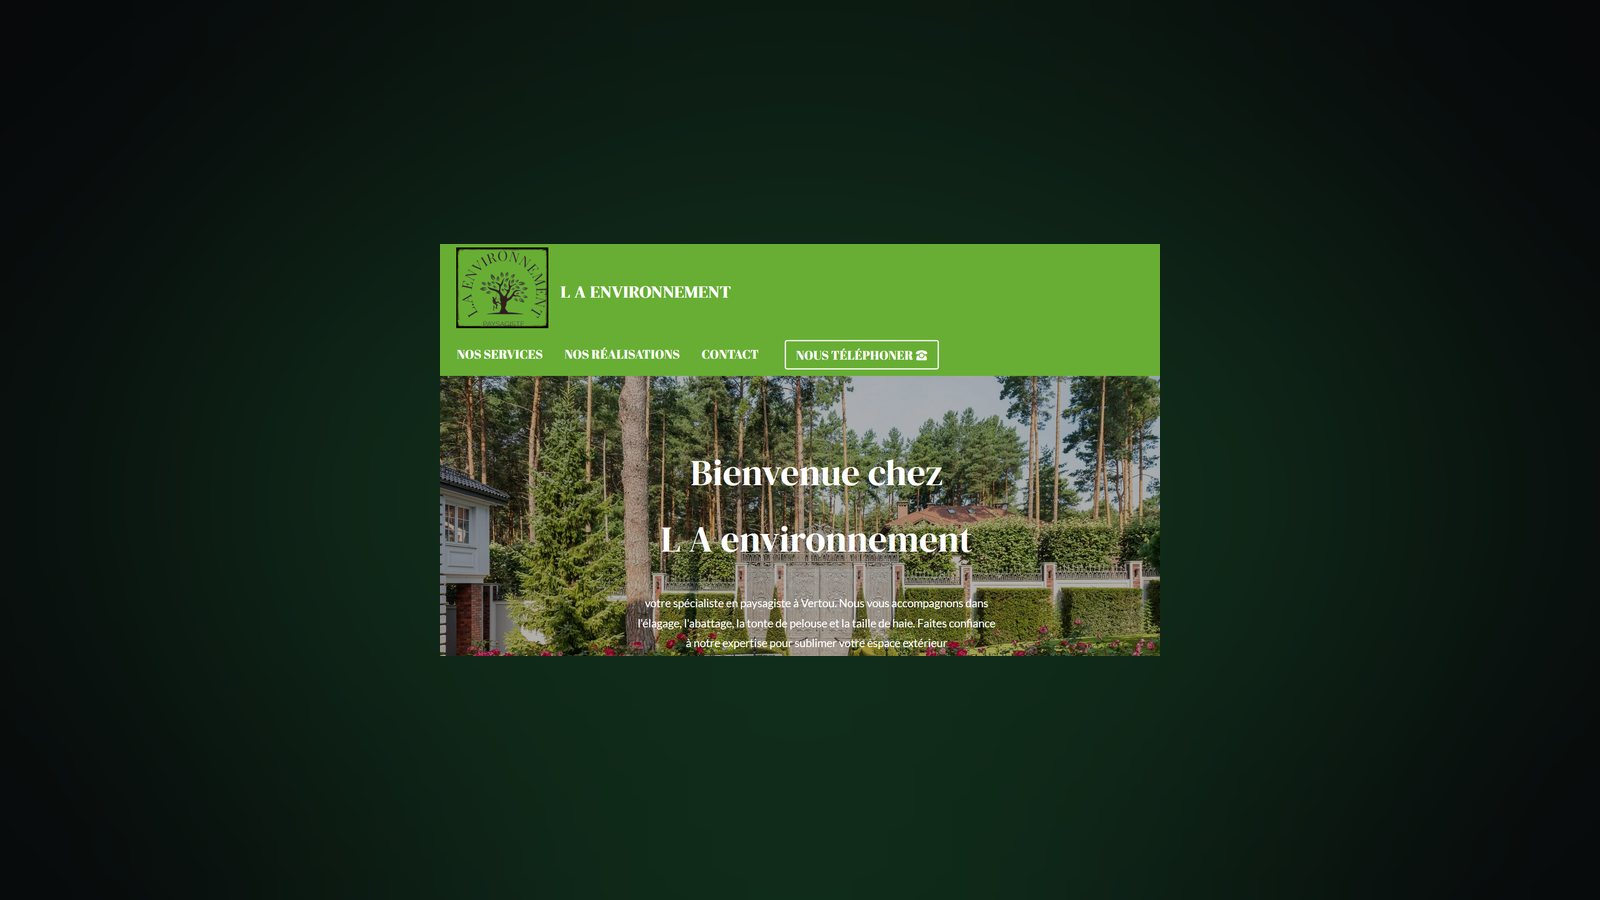
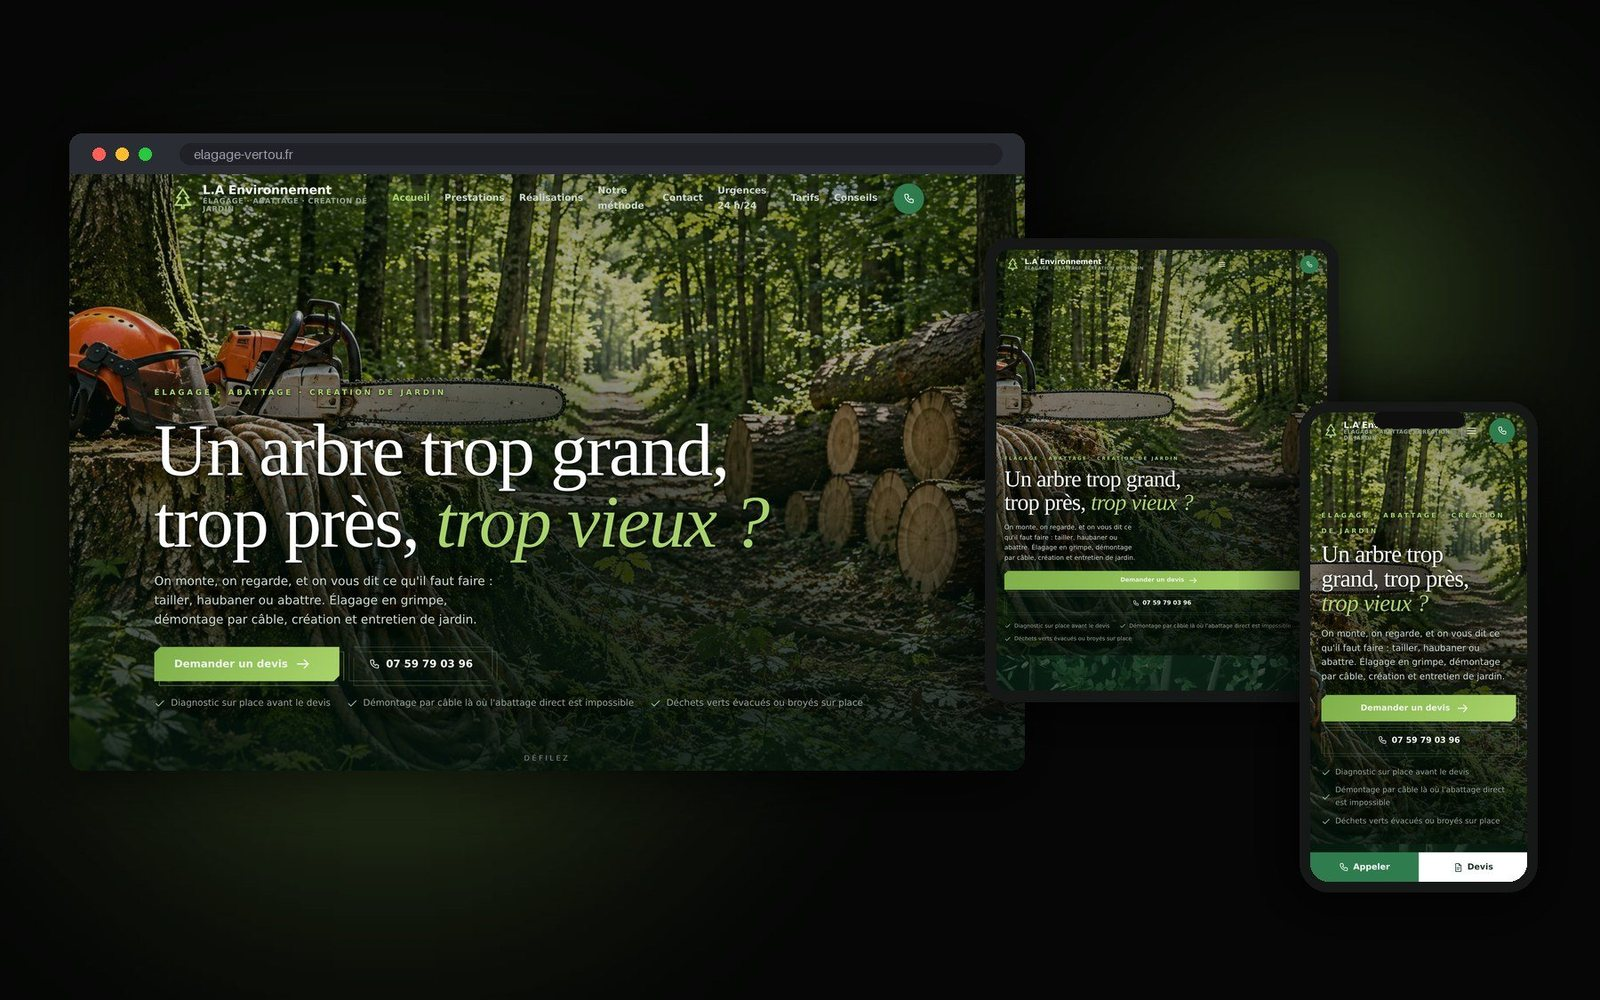
La carte L.A de l'accueil menait vers un domaine mort, capture de l'ancien site
Sur alliancegroupe-inc.com, la carte de la page d'accueil montrait encore une
capture du site d'avant, annoncait « paysagiste » et pointait vers
paysagiste-environnement.com — un domaine dont le certificat est casse :
un visiteur qui cliquait recevait une alerte de securite du navigateur.
La plus belle vitrine du monde ne sert a rien si le lien fait peur.

La carte porte desormais la maquette ordinateur + tablette + telephone, et
l'image mene a la page explicative /realisation-elagage plutot qu'a
l'exterieur. Le metier reel est annonce (elagage, abattage, Vertou), et les
trois puces deviennent verifiables : douze ambiances jour/saison, urgences
24 h/24 declarees dans la fiche structuree, tarifs affiches.

Le meme lien mort trainait sur page-accueil-epuree.php et
page-audit-securite.php : corrige aussi.

La page explicative gagne une section « Des exemples, pas des promesses » :
quatre pages interieures reelles du site — une prestation, un chantier
pendant/apres, la page d'urgence, la page des prix — chacune ecrite pour une
recherche precise plutot qu'un fourre-tout « nos services ».

Claude-Session: https://claude.ai/code/session_01LXSKG1NwsfrAKLFKPWJ1QK

diff --git a/alliance-groupe-theme/templates/page-realisation-elagage.php b/alliance-groupe-theme/templates/page-realisation-elagage.php
@@ -24,6 +24,20 @@ $galerie = array(
 	array( 'la-tarifs',      'Les tarifs annoncés',      'Les fourchettes sont sur la page. Un artisan qui affiche ses prix n\'a plus à se justifier au téléphone.' ),
 	array( 'la-devis',       'La demande de devis',      'Une seule question posée au visiteur : ce qui vous inquiète. Le formulaire vient après, jamais avant.' ),
 );
+
+/* Les pages interieures : c'est la que le travail se voit vraiment. Une page
+   par prestation, une par chantier, une pour l'urgence, une pour les prix —
+   chacune ecrite pour une recherche precise, pas un fourre-tout. */
+$exemples = array(
+	array( 'la-ex-prestation', 'Une page par prestation',
+		'« Élagage en grimpe à Vertou (44) : taille douce d\'arbre ». Six prestations, six pages, six recherches Google différentes. Une page fourre-tout « nos services » n\'aurait rien capté.' ),
+	array( 'la-ex-chantier', 'Une page par chantier',
+		'Pendant / après, photographié sur place. C\'est la preuve qu\'un devis ne remplace pas : le client voit ce qui l\'attend avant même d\'appeler.' ),
+	array( 'la-ex-urgences', 'La page qui sonne à 2 h du matin',
+		'« Urgence arbre tombé à Vertou — élagueur 24 h/24 ». Une page dédiée, le numéro en gros, pour la recherche faite dans la panique après une tempête.' ),
+	array( 'la-ex-tarifs', 'Les prix, écrits',
+		'« Prix d\'un élagage ou d\'un abattage à Vertou et Nantes ». Très peu d\'artisans osent. Celui qui affiche ses fourchettes élimine les curieux et garde les sérieux.' ),
+);
 ?>
 <?php get_template_part( 'template-parts/realisation-style' ); ?>
 <style>
@@ -187,6 +201,21 @@ $galerie = array(
           <figure class="rp__shot" data-r>
             <img src="<?php echo esc_url( $img . $g[0] . '.jpg' ); ?>" alt="<?php echo esc_attr( $g[1] ); ?> — L.A Environnement" loading="lazy">
             <div><b><?php echo esc_html( $g[1] ); ?></b><span><?php echo esc_html( $g[2] ); ?></span></div>
+          </figure>
+        <?php endforeach; ?>
+      </div>
+    </div>
+  </section>
+
+  <section class="rp__gal" style="padding-top:0">
+    <div class="wr">
+      <h2 data-r>Des exemples, <em>pas des promesses</em></h2>
+      <p data-r>Le site ne se résume pas à son accueil. Chaque page a été écrite pour une question précise que quelqu'un tape réellement dans Google.</p>
+      <div class="rp__shots">
+        <?php foreach ( $exemples as $e ) : ?>
+          <figure class="rp__shot" data-r>
+            <img src="<?php echo esc_url( $img . $e[0] . '.jpg' ); ?>" alt="<?php echo esc_attr( $e[1] ); ?> — L.A Environnement" loading="lazy" width="1200" height="750">
+            <div><b><?php echo esc_html( $e[1] ); ?></b><span><?php echo esc_html( $e[2] ); ?></span></div>
           </figure>
         <?php endforeach; ?>
       </div>

diff --git a/alliance-groupe-theme/templates/page-accueil-cinema.php b/alliance-groupe-theme/templates/page-accueil-cinema.php
@@ -780,13 +780,13 @@ document.documentElement.classList.add('js-cine');
         </div>
       </article>
       <article class="rz__card" data-rv>
-        <a class="rz__vue" href="https://www.paysagiste-environnement.com/" target="_blank" rel="noopener"><img src="<?php echo esc_url( $dir . '/assets/images/realisations/carte-la.jpg' ); ?>" alt="Le site L.A Environnement" loading="lazy"></a>
+        <a class="rz__vue" href="<?php echo esc_url( home_url( '/realisation-elagage' ) ); ?>"><img src="<?php echo esc_url( $dir . '/assets/images/realisations/carte-la.jpg' ); ?>" alt="Le site L.A Environnement sur ordinateur, tablette et téléphone — voir l'étude de cas" loading="lazy"></a>
         <div class="rz__body">
-          <span class="rz__meta">Paysagiste · Loire-Atlantique</span>
+          <span class="rz__meta">Élagage &amp; abattage · Vertou</span>
           <h3>L.A Environnement</h3>
-          <p>Site vitrine et génération de devis pour un paysagiste. Formulaires optimisés et référencement local dominant sur son secteur.</p>
-          <ul class="rz__pts"><li>+320 % de devis</li><li>Top 3 Google</li><li>15 devis/mois</li></ul>
-          <div class="rz__liens"><a href="https://www.paysagiste-environnement.com/" target="_blank" rel="noopener">Voir le site ↗</a><a class="rz__avis" href="https://www.google.com/maps/search/?api=1&amp;query=L.A%20Environnement%20paysagiste%20Nantes" target="_blank" rel="noopener">Avis Google ↗</a></div>
+          <p>Un arboriste-grimpeur qui n'avait qu'un flyer. Thème sur mesure dont le premier écran change selon la saison et l'heure du visiteur, tarifs affichés, chantiers en photos réelles, urgences déclarées jour et nuit.</p>
+          <ul class="rz__pts"><li>12 ambiances jour/saison</li><li>Urgences 24 h/24</li><li>Tarifs affichés</li></ul>
+          <div class="rz__liens"><a href="https://elagage-vertou.fr/" target="_blank" rel="noopener">Voir le site ↗</a><a href="<?php echo esc_url( home_url( '/realisation-elagage' ) ); ?>">L'étude de cas →</a><a class="rz__avis" href="https://www.google.com/maps/search/?api=1&amp;query=L.A%20Environnement%20%C3%A9lagage%20Vertou" target="_blank" rel="noopener">Avis Google ↗</a></div>
         </div>
       </article>
     </div>

diff --git a/alliance-groupe-theme/templates/page-accueil-epuree.php b/alliance-groupe-theme/templates/page-accueil-epuree.php
@@ -201,7 +201,7 @@ $ag_poster = get_stylesheet_directory_uri() . '/assets/images/cities/naples-1.jp
         <div class="testi-quote">« Site vitrine optimisé pour générer des demandes de devis en local. On est passé de 1 à 15 demandes par mois en deux trimestres. »</div>
         <div class="testi-author">
           <div><div class="name">L.A Environnement</div><div class="role">Paysagiste · Loire-Atlantique</div></div>
-          <a href="https://www.paysagiste-environnement.com/" class="link" target="_blank" rel="noopener">Voir →</a>
+          <a href="https://elagage-vertou.fr/" class="link" target="_blank" rel="noopener">Voir →</a>
         </div>
       </div>
     </div>

diff --git a/alliance-groupe-theme/templates/page-audit-securite.php b/alliance-groupe-theme/templates/page-audit-securite.php
@@ -325,7 +325,7 @@ $ag_dir  = get_template_directory_uri();
             <div class="name">L.A Environnement</div>
             <div class="role">Paysagiste · Loire-Atlantique</div>
           </div>
-          <a href="https://www.paysagiste-environnement.com/" class="link" target="_blank" rel="noopener">Voir →</a>
+          <a href="https://elagage-vertou.fr/" class="link" target="_blank" rel="noopener">Voir →</a>
         </div>
       </div>
     </div>
